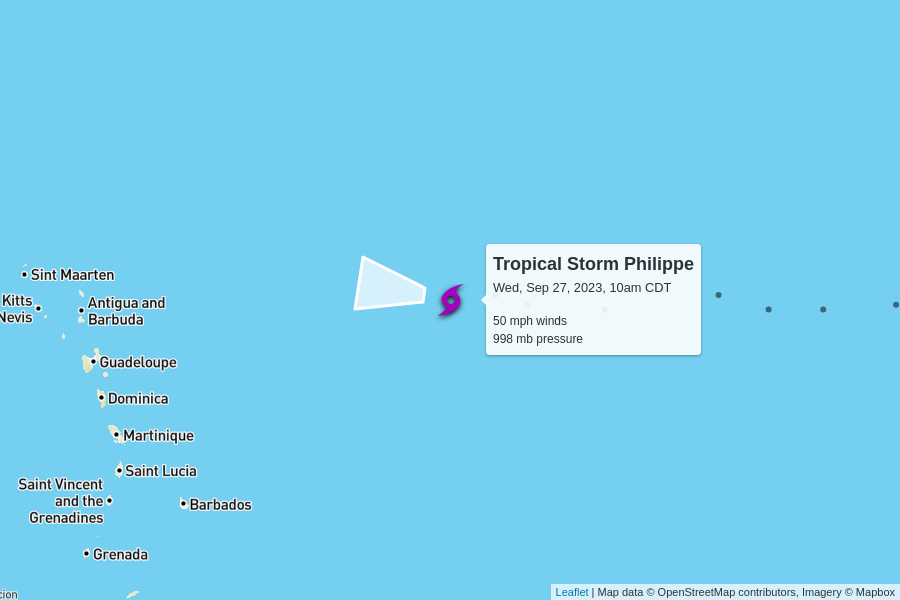
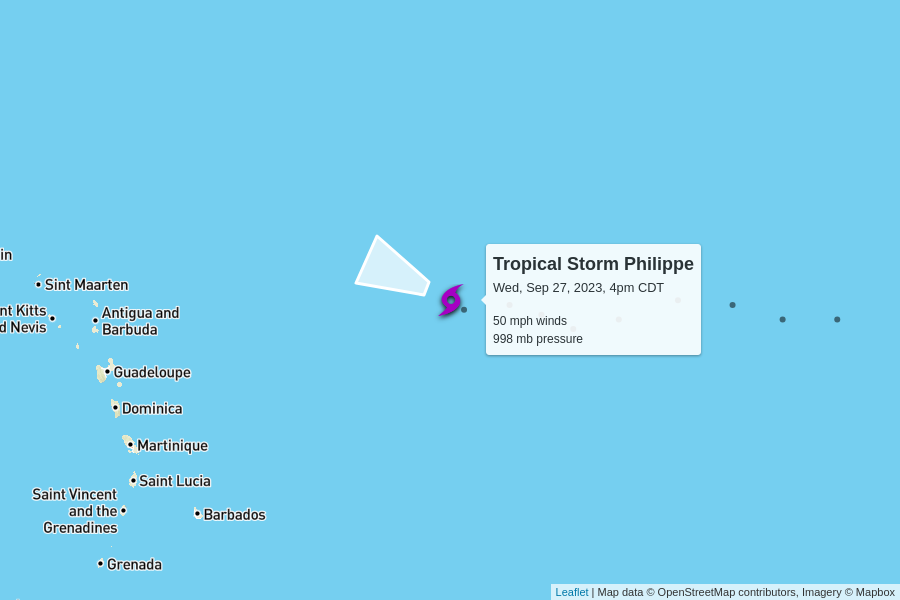
automatic update

diff --git a/docs/index.html b/docs/index.html
@@ -102,7 +102,7 @@
         <td colspan="6" class="storm category-0" >
           <h2>
             Tropical Storm Philippe
-            <p class="updated">last updated <span data-time>2023-09-27T15:00:00.000Z</span></p>
+            <p class="updated">last updated <span data-time>2023-09-27T21:00:00.000Z</span></p>
           </h2>
         </td>
       </tr>
@@ -117,12 +117,12 @@
       </tr>
       <tr>
         <td class="spacer"></td>
-        <td>50 mph<br>+5 mph since last update</td>
-        <td>998 mb<br>-5 mb since last update</td>
+        <td>50 mph<br>0 mph since last update</td>
+        <td>998 mb<br>0 mb since last update</td>
         <td>
-          9 mph to the west
+          5 mph to the west-northwest
           <br/>
-          <span style="display: inline-block; font-size: 1.5em; transform: rotate(280deg);">↑</span>
+          <span style="display: inline-block; font-size: 1.5em; transform: rotate(295deg);">↑</span>
         </td>
         <td><a href="https://raw.githubusercontent.com/mgwalker/atlantic-hurricanes/main/data/csv/AL172023.csv">AL172023.csv</a></td>
         <td><a href="https://www.nhc.noaa.gov/archive/2023/PHILIPPE.shtml?">NHC advisories</a></td>
